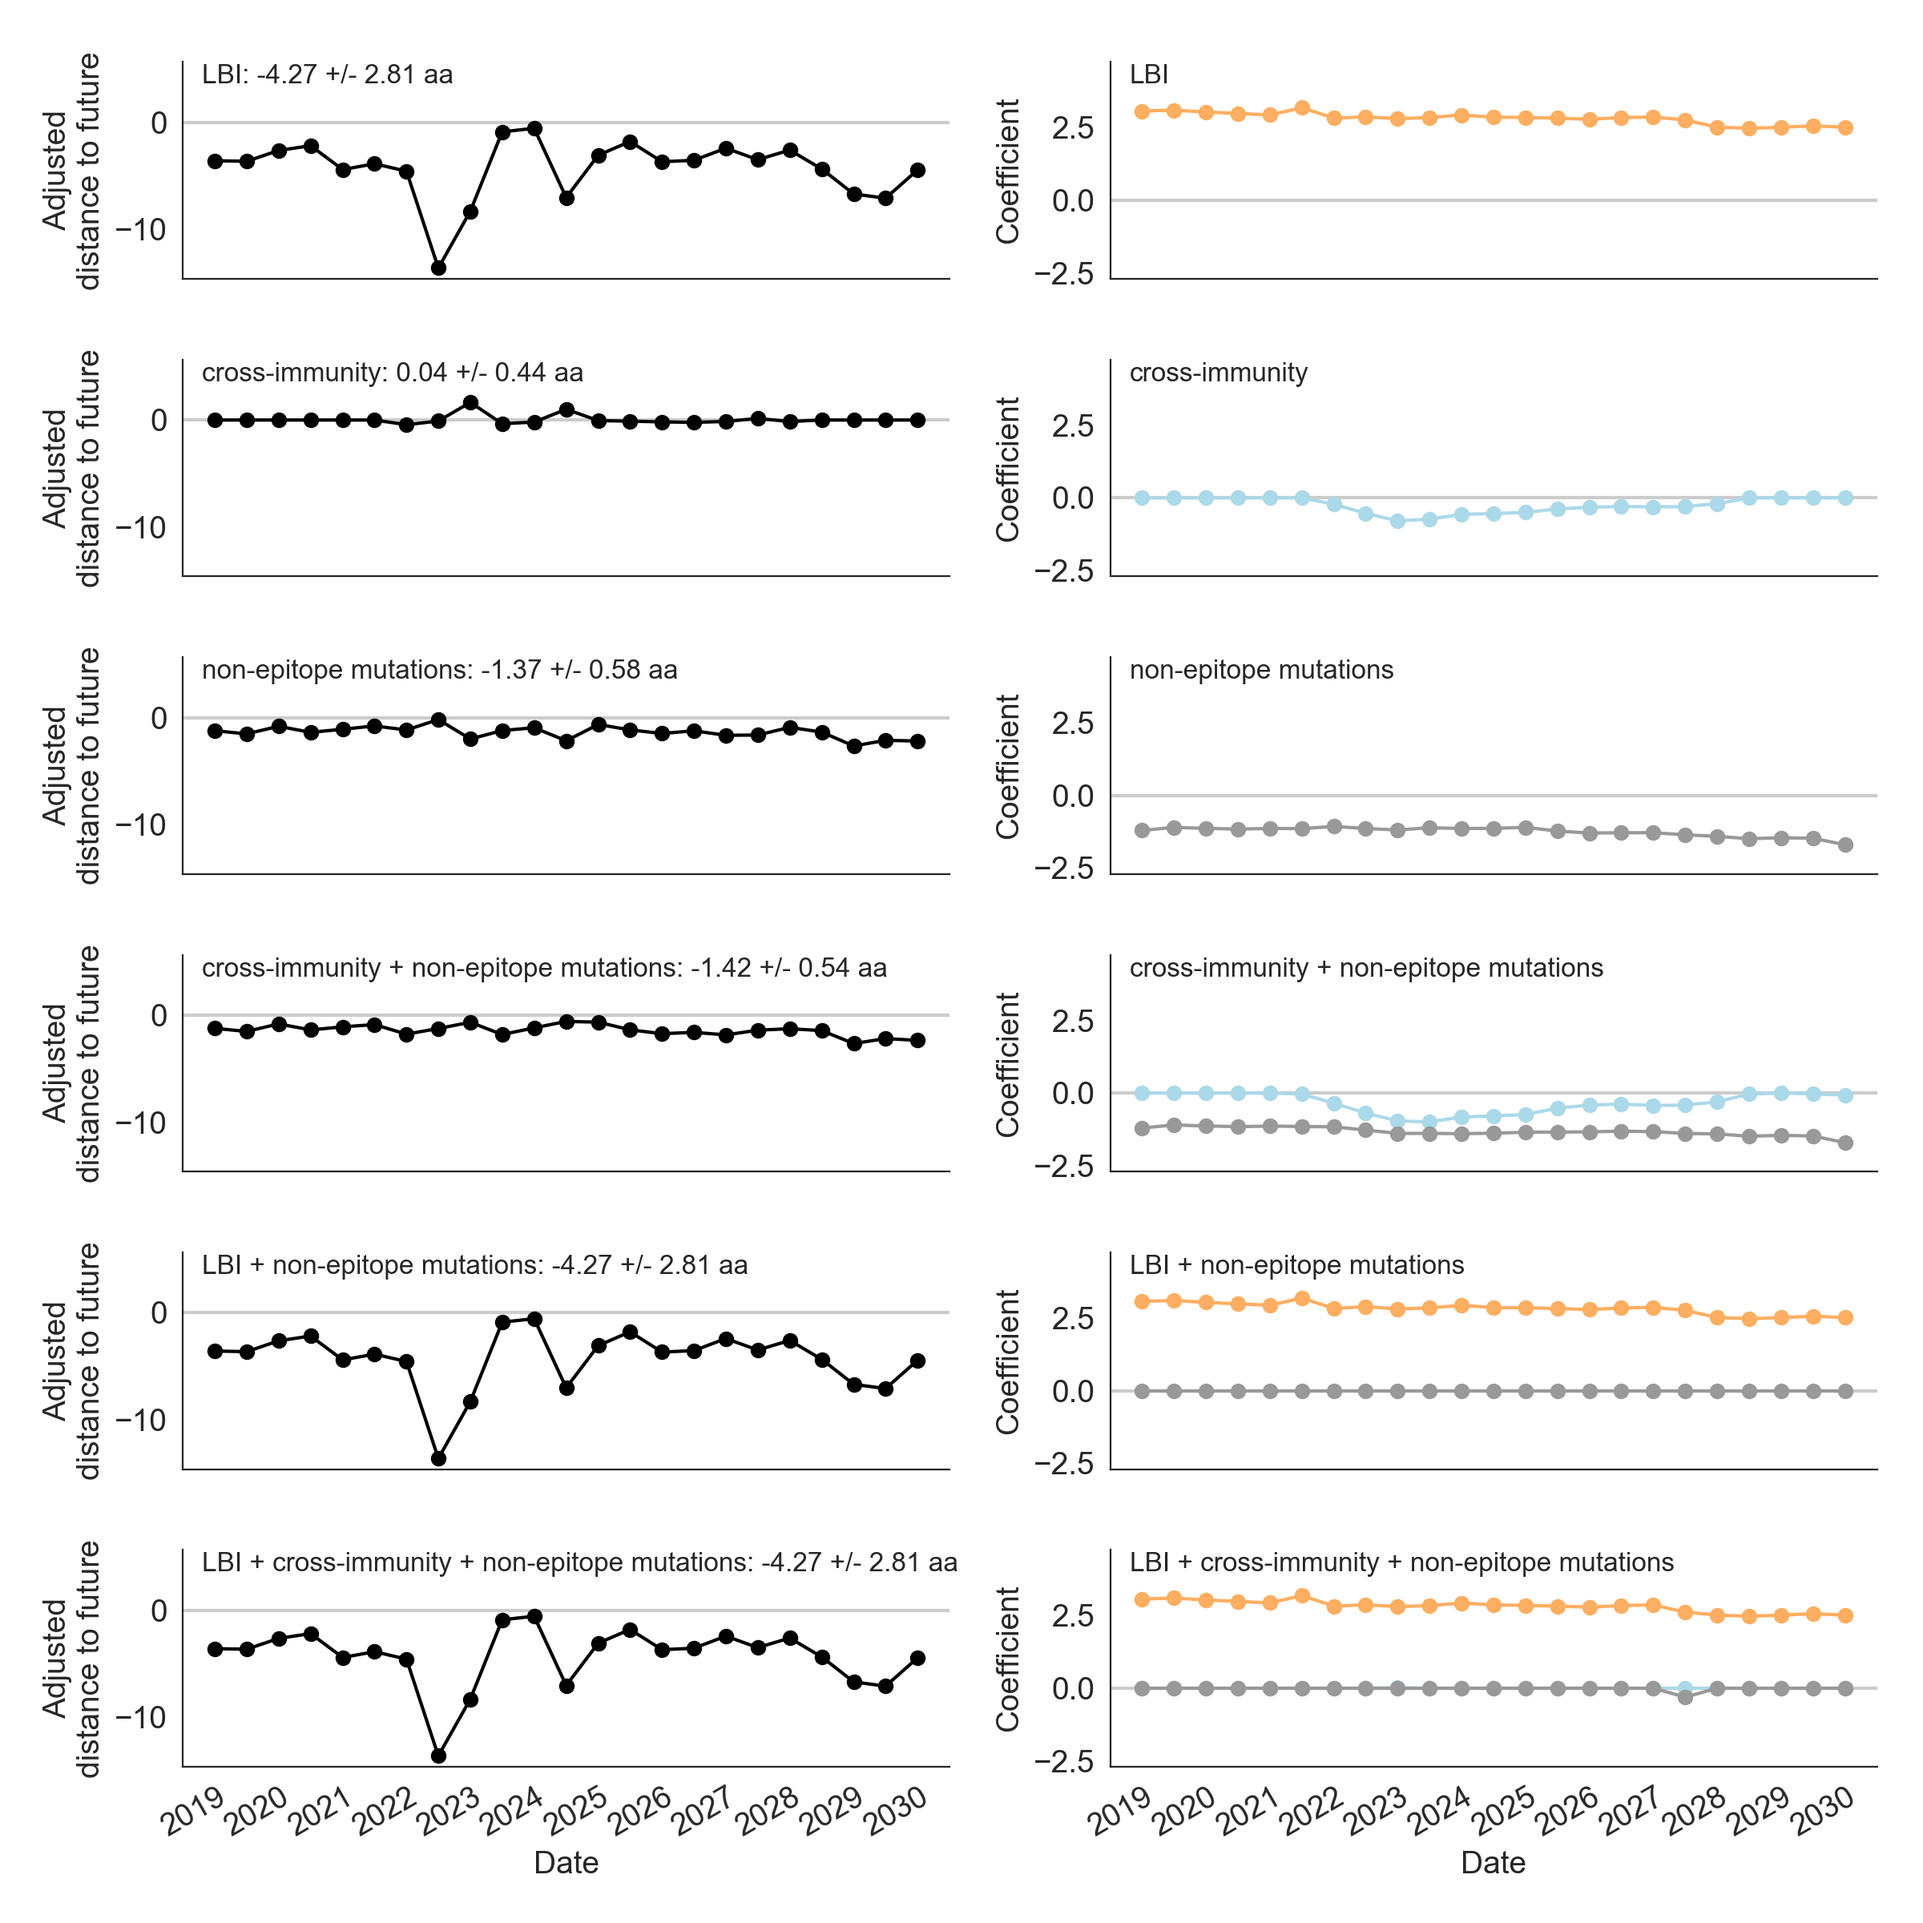
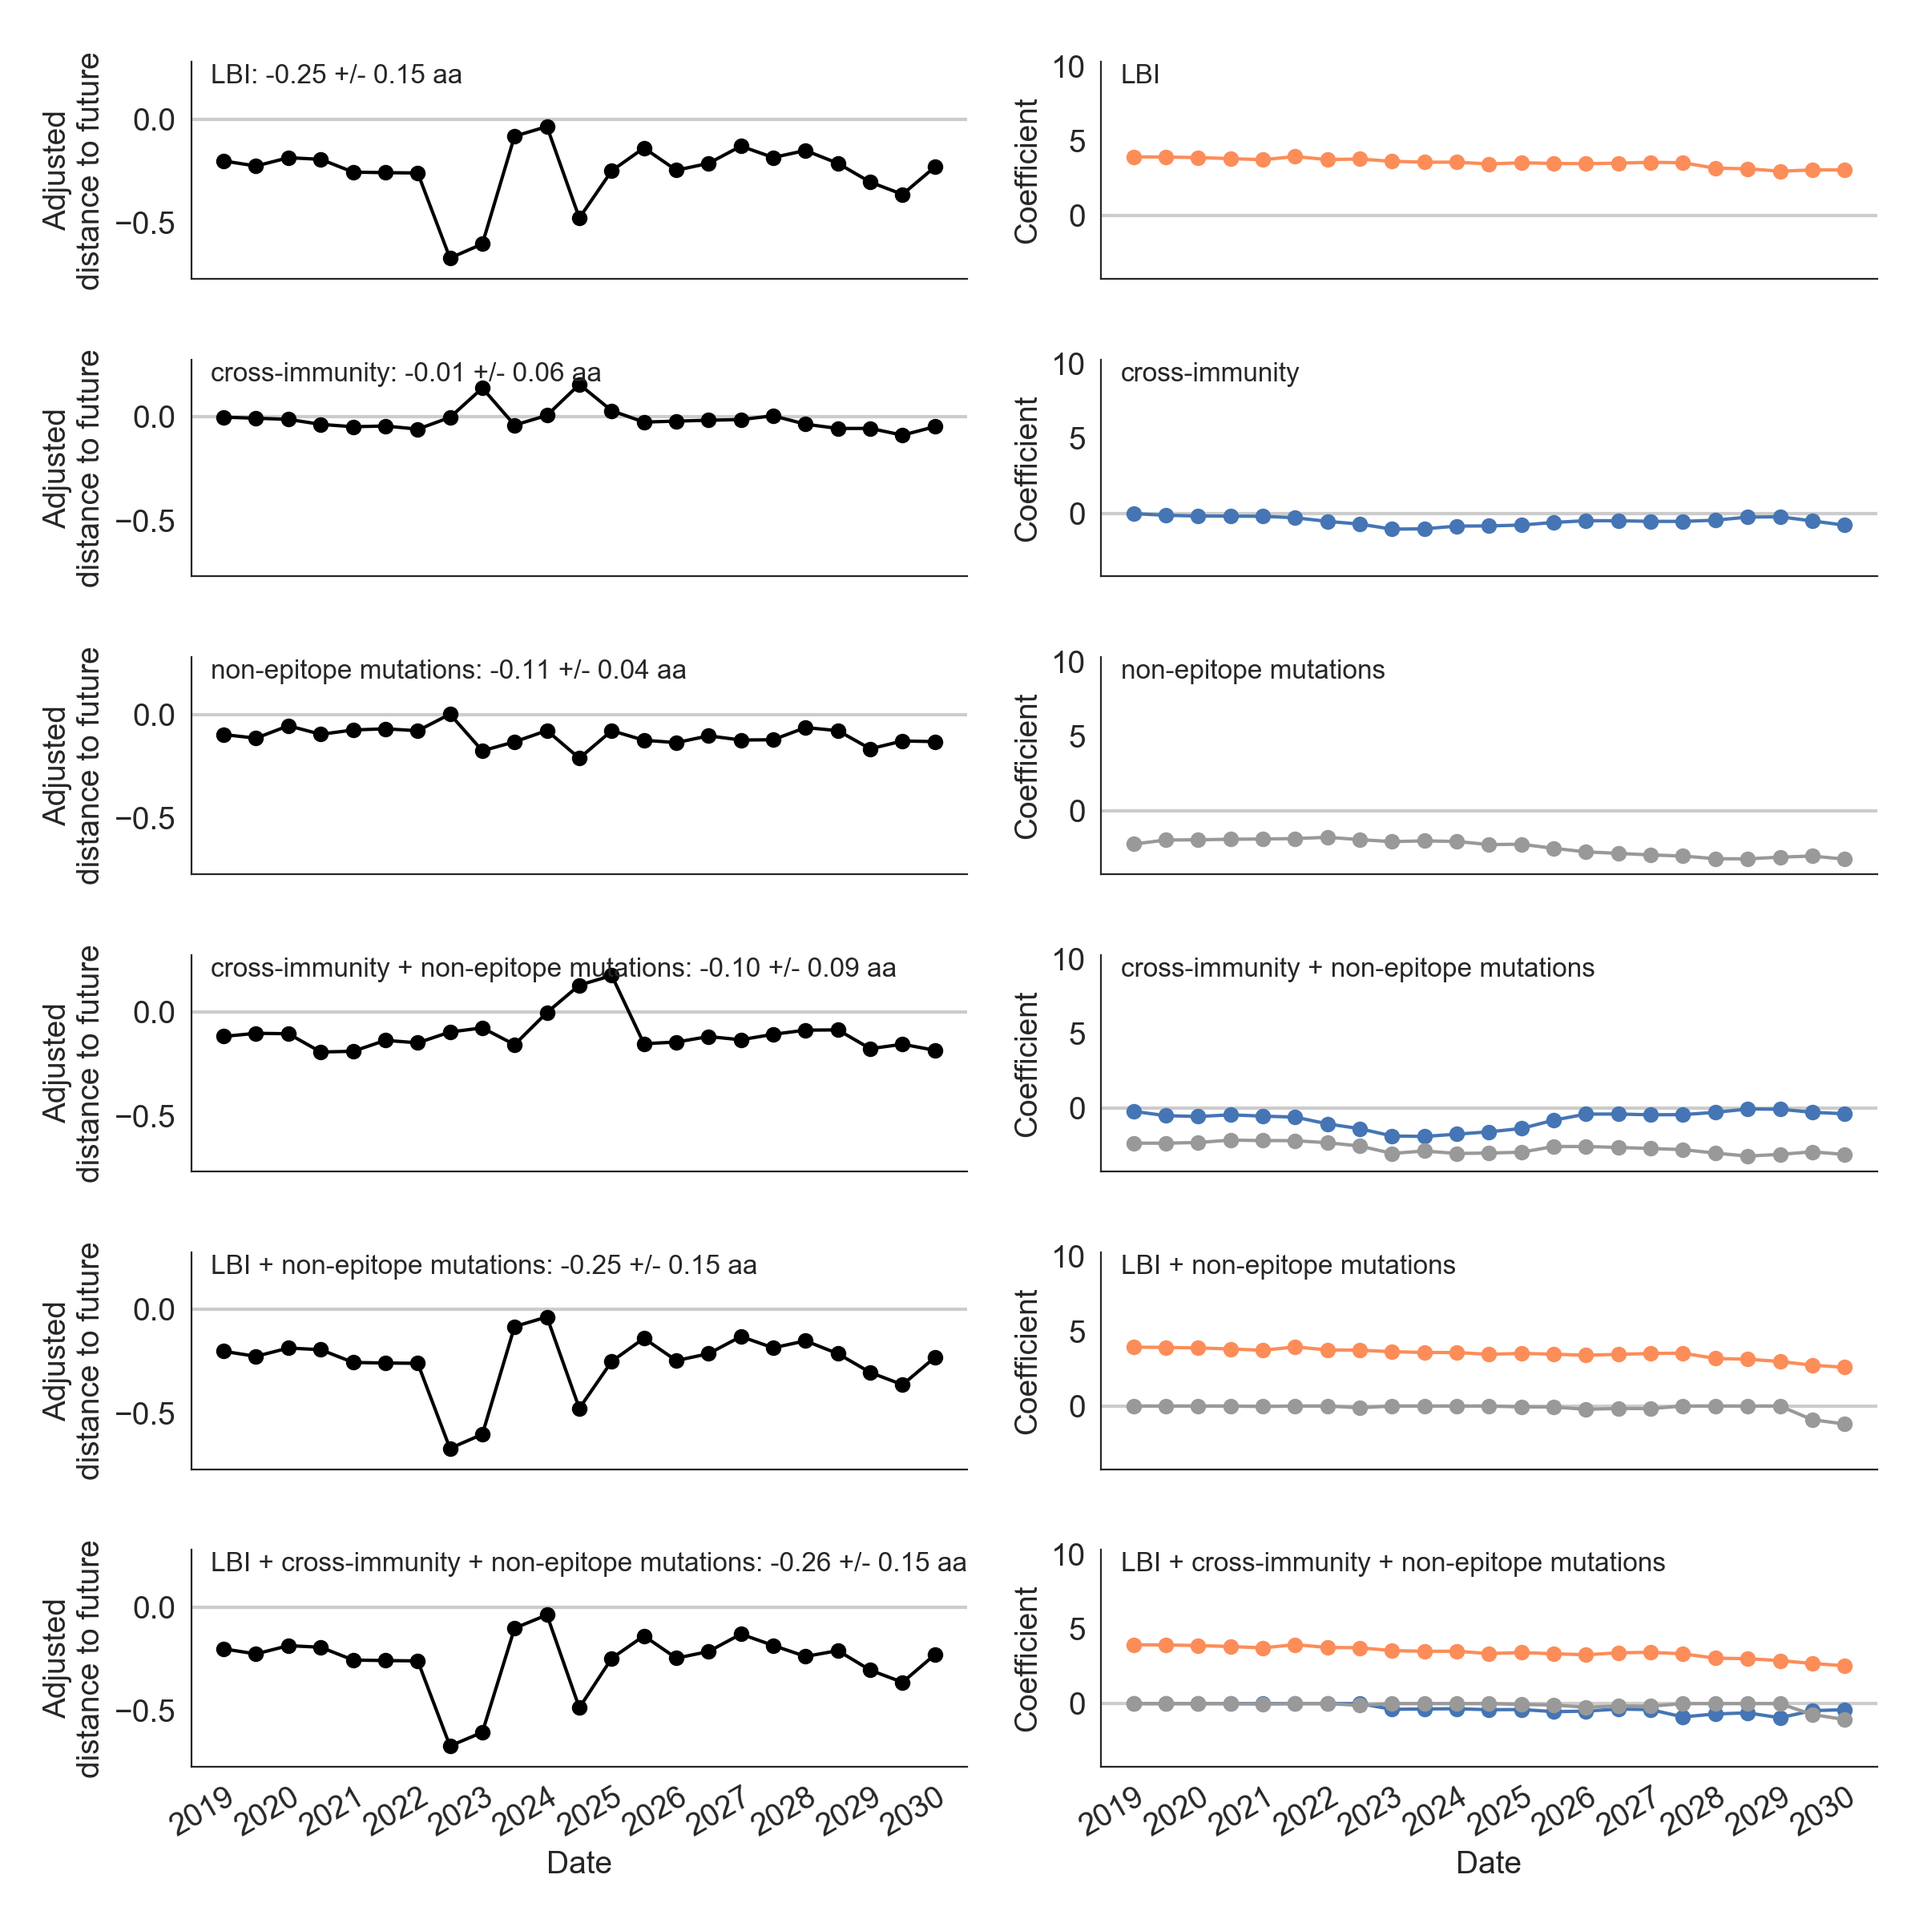
Update figures for simulation results, add figures for natural populations
Includes rough text describing results.

diff --git a/manuscript/main.tex b/manuscript/main.tex
@@ -15,6 +15,14 @@ Recent developments in computational methods and influenza virology have made it
 For example, phenotypic measurements of antigenic drift are now accessible through phylogenetic models \cite{Neher:2016hy} and functional phenotypes for HA are available from deep mutational scanning experiments \cite{Lee2018}.
 We describe an approach to integrate previously disparate sequence-only models of influenza evolution with high-quality experimental measurements of antigenic drift and functional constraint.
 
+\begin{figure*}[t]
+  \begin{center}
+  \includegraphics[width=\textwidth]{figures/model.png}
+  \caption{Schematic representation of the fitness model.}
+  \label{fig:model}
+  \end{center}
+\end{figure*}
+
 \textit{Brief summary of model implementation here including reference to Fig.~\ref{fig:model}.}
 
 \section*{Results}
@@ -36,32 +44,53 @@ As a positive control, we trained a model on the true fitness of each sample as 
 To control for variability in distances between seasons, we evaluated all models relative to the observed distance between seasons (the adjusted distance between seasons).
 This distance corresponded to a model without an exponential growth parameter which we labeled as the ``naive'' model.
 
-The average distance per year between populations averaged 18 +/- 5 amino acids in the naive model (Supplemental Fig.~\ref{sup_fig:weighted_distance_between_timepoints}).
-On average, all models reduced this distance with LBI performing the best by reducing this distance to the future by over four amino acids (Fig.~\ref{fig:model_accuracy_and_coefficients_for_simulated_populations}).
+The average distance per year between populations under the naive model of no frequency change was 0.10 +/- 0.17 (Supplemental Fig.~\ref{sup_fig:distance_of_simulated_populations_between_timepoints}).
+The naive model accurately approximated the future in five out of 23 validation timepoints (22\%).
+All biologically-informed models consistently reduced this distance with estimates by LBI accurately estimating the future in 22 of 23 timepoints (96\%) with an average distance of -0.16 +/- 0.16 (Fig.~\ref{fig:unadjusted_model_accuracy_and_coefficients_for_simulated_populations}).
 As expected, the true fitness metric always outperformed the naive model.
 The non-epitope metric also consistently outperformed the naive model, predicting the future nearly as well as the true fitness.
-Surprisingly, cross-immunity did not accurately forecast future populations, receiving instead an average coefficient near zero in most training windows.
-While the delta frequency metric was not as accurate as LBI, it was considerably less variable with an average adjusted distance similar to the non-epitope metric.
-Interestingly, the coefficients for non-epitope mutations, LBI, and delta frequency were stably non-zero across all training windows with standard deviations ranging from 0.16 to 0.42.
-In contrast, the true fitness metric's coefficients gradually varied more over time with a standard deviation of 0.62.
+Surprisingly, cross-immunity did not accurately forecast future populations and was consistently assigned a weakly negative coefficient.
+While the delta frequency metric was not as accurate as LBI, it was consistently more accurate than the naive model with an average distance similar to the non-epitope metric.
+The coefficients for all metrics except for the true fitness were stably non-zero across all training windows.
+In contrast, the true fitness metric's coefficients gradually decreased over time.
 
 \begin{figure*}[t]
   \begin{center}
-  \includegraphics[width=\textwidth]{figures/model-accuracy-and-coefficients-for-simulated-populations.png}
+  \includegraphics[width=\textwidth]{figures/unadjusted-model-accuracy-and-coefficients-for-simulated-populations.png}
   \caption{Model a) accuracy and b) coefficients for simulated populations of A/H3N2-like viruses.}
-  \label{fig:model_accuracy_and_coefficients_for_simulated_populations}
+  \label{fig:unadjusted_model_accuracy_and_coefficients_for_simulated_populations}
   \end{center}
 \end{figure*}
 
 We tested our hypothesis that composite models of cross-immunity and non-epitope mutations would perform as well as LBI or delta frequency.
 We further tested the relationship between LBI and these two individual metrics by fitting composite models with all combinations of these three predictors.
-Surprisingly, cross-immunity provided no additional accuracy to the non-epitope metric, while neither of these mutation-based metrics provided any improvement over LBI (Supplemental Fig.~\ref{sup_fig:composite_model_accuracy_and_coefficients_for_simulated_populations}).
+Surprisingly, cross-immunity provided no additional accuracy to the non-epitope metric, while neither of these mutation-based metrics provided any improvement over LBI (Supplemental Fig.~\ref{sup_fig:unadjusted_composite_model_accuracy_and_coefficients_for_simulated_populations}).
 In the latter models, LBI maintained a consistent coefficient across all training windows while the models assigned both cross-immunity and non-epitope metrics coefficients near zero.
 These results suggest that non-epitope mutations and LBI are mutually exclusive and either metric is sufficient to forecast the evolution of these simulated populations.
 
 \textit{Repeat simulations with multiple epochs to show model coefficients can reflect these underlying changes to evolutionary constraints.}
 
-\subsection*{Models based on X metrics most accurately forecast natural populations of A/H3N2 viruses}
+\subsection*{Phylogenetic metrics most accurately forecast natural populations of A/H3N2 viruses}
+
+The average distance per year between natural populations was twice that of simulated populations at 0.20 +/- 0.16 (Supplemental Fig.~\ref{sup_fig:distance_of_natural_populations_between_timepoints}).
+Consistent with the simulated population results, almost all biologically-informed metrics performed better than the naive model for natural populations with the exception of the cross-immunity metric (Fig.~\ref{fig:unadjusted_model_accuracy_and_coefficients_for_natural_populations}).
+The two phylogenetic metrics, LBI and delta frequency, performed consistently better than all other metrics with average distances to the future of -0.06 +/- 0.20 and 0.00 +/- 0.12, respectively.
+Importantly, HI phenotypes produced more accurate estimates of the future than the other antigenic metric of cross-immunity.
+Variability in the coefficient for the HI phenotypes metric was consistent with relatively sparse HI titer measurements prior to 2011.
+In contrast, the sequence-based metric for functional constraint, non-epitope mutations, outperformed the DMS-based phenotypic metric.
+The gradual decline of the DMS metric's coefficient around 2009 is consistent with overfitting models to the original background strain of the DMS experiments, A/Perth/16/2009.
+
+\begin{figure*}[t]
+  \begin{center}
+  \includegraphics[width=\textwidth]{figures/unadjusted-model-accuracy-and-coefficients-for-natural-populations.png}
+  \caption{Model a) accuracy and b) coefficients for natural populations of A/H3N2 viruses.}
+  \label{fig:unadjusted_model_accuracy_and_coefficients_for_natural_populations}
+  \end{center}
+\end{figure*}
+
+The results suggested that combinations of the best individual metrics like LBI, delta frequency, non-epitope mutations, and HI phenotypes could produce even more accurate models.
+To this end, we fit models for X combinations of these metrics and evaluated their distance to the future and coefficients relative to the corresponding individual metrics.
+We found results (Supplemental Fig.~\ref{sup_fig:unadjusted_composite_model_accuracy_and_coefficients_for_natural_populations}).
 
 \subsection*{Model accuracy and coefficients reflect historical patterns of A/H3N2 evolution}
 

diff --git a/manuscript/supplement.tex b/manuscript/supplement.tex
@@ -5,8 +5,6 @@
 
 \section*{Supplemental Material}
 
-\subsection*{Simulations of A/H3N2-like populations}
-
 \begin{figure*}[h]
   \begin{center}
   \includegraphics[width=\textwidth]{figures/simulated-h3n2-ha-phylogeny.png}
@@ -17,8 +15,32 @@
 
 \begin{figure*}[t]
   \begin{center}
-  \includegraphics[width=\textwidth]{figures/composite-model-accuracy-and-coefficients-for-simulated-populations.png}
+  \includegraphics[width=\textwidth]{figures/distance-of-simulated-populations-between-timepoints.png}
+  \caption{Average weighted distance per year between simulated populations of viruses under the ``naive'' model.}
+  \label{sup_fig:distance_of_simulated_populations_between_timepoints}
+  \end{center}
+\end{figure*}
+
+\begin{figure*}[t]
+  \begin{center}
+  \includegraphics[width=\textwidth]{figures/unadjusted-composite-model-accuracy-and-coefficients-for-simulated-populations.png}
   \caption{Composite model a) accuracy and b) coefficients for simulated populations of A/H3N2-like viruses.}
-  \label{sup_fig:composite_model_accuracy_and_coefficients_for_simulated_populations}
+  \label{sup_fig:unadjusted_composite_model_accuracy_and_coefficients_for_simulated_populations}
+  \end{center}
+\end{figure*}
+
+\begin{figure*}[t]
+  \begin{center}
+  \includegraphics[width=\textwidth]{figures/distance-of-natural-populations-between-timepoints.png}
+  \caption{Average weighted distance per year between natural populations of viruses under the ``naive'' model.}
+  \label{sup_fig:distance_of_natural_populations_between_timepoints}
+  \end{center}
+\end{figure*}
+
+\begin{figure*}[t]
+  \begin{center}
+  \includegraphics[width=\textwidth]{figures/unadjusted-composite-model-accuracy-and-coefficients-for-natural-populations.png}
+  \caption{Composite model a) accuracy and b) coefficients for natural populations of A/H3N2 viruses.}
+  \label{sup_fig:unadjusted_composite_model_accuracy_and_coefficients_for_natural_populations}
   \end{center}
 \end{figure*}

diff --git a/manuscript/manuscript.tex b/manuscript/manuscript.tex
@@ -48,6 +48,8 @@
 \affil[2]{Moleculary and Cell Biology, University of Washington, Seattle, WA, USA}
 \affil[3]{Biozentrum, University of Basel, Basel, Switzerland}
 
+\date{}
+
 \begin{document}
 
 \begin{abstract}
